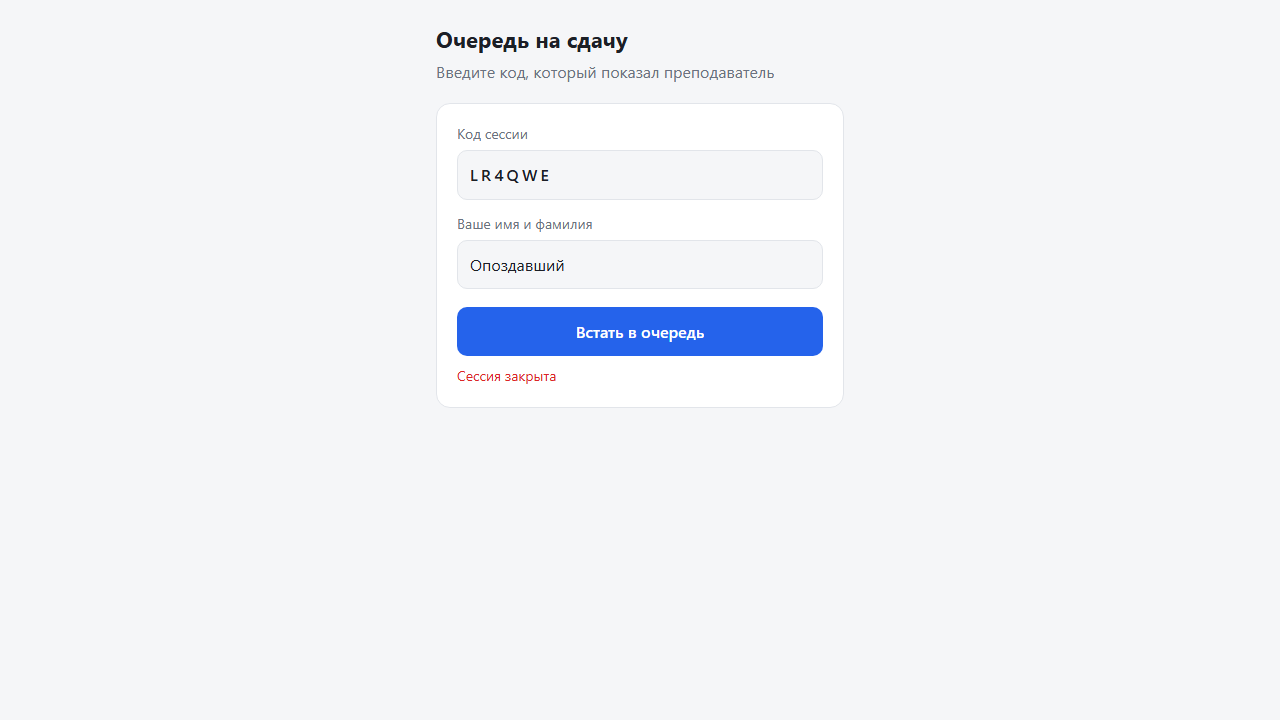
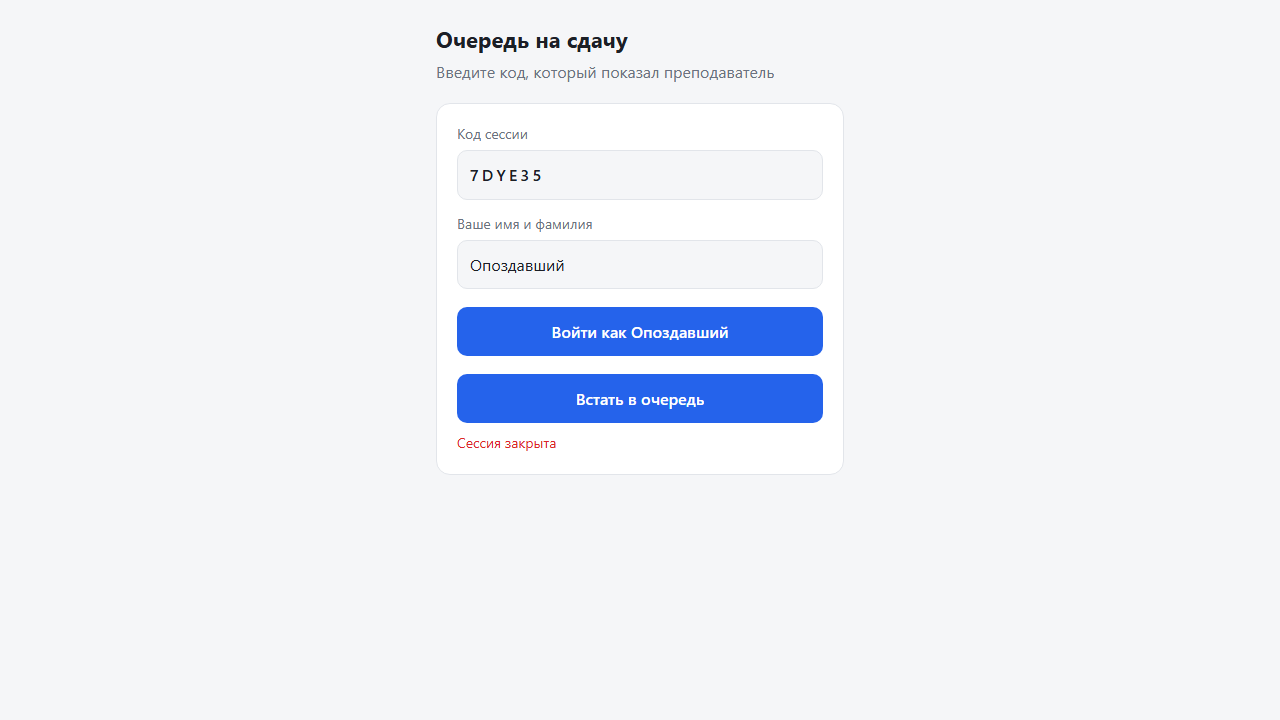
docs: describe new modes and features, refresh screenshots

Changed region(s): [[0.3438, 0.5194, 0.6562, 0.6417], [0.4375, 0.4583, 0.5625, 0.4889], [0.375, 0.2139, 0.4375, 0.275]]

diff --git a/README.md b/README.md
@@ -20,7 +20,9 @@ docker compose up -d --build
 
 Без Docker: поднять PostgreSQL, прописать `DATABASE_URL` в `.env`, затем `pip install -r requirements-dev.txt`, `alembic upgrade head`, `uvicorn main:app` (процесс один, см. «Ограничения»).
 
-Развёртывание на сервере, HTTPS и резервные копии: [docs/DEPLOY.md](docs/DEPLOY.md).
+**Занятие за 30 секунд.** Откройте `/teacher`, войдите, нажмите «Начать занятие» (форма уже заполнена прошлыми настройками): появятся код, ссылка и QR, кнопка «На проектор» разворачивает их на весь экран. Подробная инструкция преподавателю, текст для студентов, анкета и метрики пилота: [docs/PILOT.md](docs/PILOT.md).
+
+Развёртывание на сервере (VPS с 1 ГБ), HTTPS, резервные копии и чек-лист безопасности: [docs/DEPLOY.md](docs/DEPLOY.md); боевой вариант запускается из `docker-compose.prod.yml` с `.env.prod.example`.
 
 ## Скриншоты
 
@@ -28,6 +30,10 @@ docker compose up -d --build
 |---|---|
 | ![Очередь преподавателя](docs/screenshots/teacher-queue.png) | ![Студента вызвали](docs/screenshots/student-called.png) |
 | ![Вызванный студент](docs/screenshots/teacher-called.png) | ![Следующий в очереди](docs/screenshots/student-next.png) |
+| ![Старт занятия: код и QR](docs/screenshots/teacher-start-panel.png) | ![Проверка присутствия](docs/screenshots/teacher-presence-code.png) |
+| ![Бюджет времени и прогноз](docs/screenshots/teacher-budget-over.png) | ![Жеребьёвка проведена](docs/screenshots/teacher-lottery-done.png) |
+| ![Студент в пуле жеребьёвки](docs/screenshots/student-lottery-pool.png) | ![Приоритет готовности](docs/screenshots/student-ready-priority.png) |
+| ![Наборы критериев и вставка вопросов](docs/screenshots/protocol-presets-and-bulk.png) | |
 
 ## Как это работает
 
@@ -111,6 +117,14 @@ stateDiagram-v2
 | `GET /sessions/{code}/me/history` | студент (`X-Entry-Token`) | свои завершённые попытки |
 | `POST /assignments/{id}/copy`, `GET /assignment-templates`, `POST /assignment-templates/{id}/create` | преподаватель | копия работы, шаблоны |
 | `/spaces`, `/spaces/join`, `/spaces/{id}/publications[/{pid}[/copy]]`, `/spaces/{id}/members/...` | преподаватель | предметные группы и общий банк |
+| `POST /sessions` (`session_mode`, `order_mode`, `ready_*`, `presence_check`, `duration_minutes` или `deadline_at`) | преподаватель | настройки занятия при создании |
+| `PUT /sessions/{code}/settings`, `POST /sessions/{code}/lottery`, `GET /sessions/{code}/events-log` | преподаватель | порядок и поощрения до закрытия записи; «закрыть запись и перемешать» (ровно один раз); журнал жеребьёвки и решений |
+| `PUT /sessions/{code}/priority` | студент (`X-Entry-Token`) | «Готов сдать сразу» или «Ещё готовлюсь» до закрытия записи |
+| `POST /submissions/{id}/bonus/remove` | преподаватель | снять бонус за раннюю сдачу с причиной |
+| `GET /sessions/{code}/budget`, `POST /sessions/{code}/budget/decision` | преподаватель | остаток времени, бюджет на студента, прогноз; согласие или отказ уменьшить число вопросов |
+| `PUT /sessions/{code}/presence`, `GET /sessions/{code}/presence` | преподаватель | проверка присутствия: включить и выключить; код на экране и секунды до смены |
+| `GET /qr.svg?text=...` | все | QR-код (SVG) на сервере, без внешних сервисов |
+| `POST /assignments/{id}/questions/import`, `GET /criteria-presets`, `POST /assignments/{id}/criteria/preset` | преподаватель | вставка списка вопросов с предпросмотром; готовые наборы критериев |
 | `GET /health`, `GET /ready`, `GET /metrics` | все | жив ли процесс; готов ли (БД и миграции); счётчики |
 
 Любая ошибка имеет вид `{"detail": "...", "code": "queue_empty", "request_id": "..."}` (для 422 добавлен список `errors`). В каждом ответе есть заголовок `X-Request-ID`.
@@ -160,6 +174,15 @@ python loadtest/summarize.py                  # медиана и разброс
 - **Аналитика справедливости** (только преподавателю, на `/protocol`). Сколько сдач, медиана и разброс длительности, распределение баллов по критериям, выбросы по длительности относительно медианы **той же группы результата**; только номера талонов, текст по шаблону. При менее чем 5 сдачах выводов нет (порог `ANALYTICS_MIN_SUBMISSIONS`).
 - **Слабые места** (на `/protocol`, по сессии и по работе). Средний процент от максимума и доля сдач ниже 50% по каждому критерию, самые проблемные критерии и вопросы, распределение итогов; таблицы и простые полосы, без имён. Первые попытки и пересдачи считаются отдельно, у каждой выборки свой порог в 5 сдач. Решение: [docs/DECISIONS.md](docs/DECISIONS.md) п. 30.
 
+### Режимы занятия, быстрый ввод и порядок очереди
+
+- **Три режима сессии.** «Только очередь» (без оценок), «Быстрая оценка» (одна оценка 0..максимум, по умолчанию 10, плюс заметка; хранится как обычная сдача с неявным критерием «Оценка», поэтому история, аналитика и журнал работают) и «Полный протокол». Режим выбирается при создании, по умолчанию как раньше. Единый рабочий экран `/teacher`: очередь, вызванный студент и панель оценки без переходов между страницами. П. 35.
+- **Быстрый ввод.** Вставка списка вопросов (нумерация, пустые строки и повторы убираются, предпросмотр, один клик), три готовых набора критериев, оценка кнопками и «Всё на максимум», быстрые пометки, горячие клавиши (`N`, цифры, `Enter`, `?`), у студента имя запоминается и вход в один клик. П. 36.
+- **Порядок очереди.** Жеребьёвка (студенты в пуле без номеров, «Закрыть запись и перемешать» один раз, перестановка в журнале), приоритет «готов сразу» с необязательным бонусом отдельной строкой (снимается с причиной) и на один вопрос меньше. П. 33.
+- **Бюджет времени.** При заданном «до HH:MM» или «N минут»: остаток, бюджет на студента, прогноз окончания, цветной статус, жёлтый и красный таймер сдачи, предложение уменьшить число вопросов только с согласия. П. 34.
+- **Проверка присутствия** (необязательно). Шестизначный код на экране меняется каждые 30-60 с, студент вводит его или сканирует QR; принимается текущий и предыдущий код, подбор ограничен по адресу и по сессии. Не защищает от пересылки кода (честно записано в KNOWN_ISSUES). П. 37.
+- **Хранение данных.** Закрытые сессии старше `DATA_RETENTION_DAYS` (180) удаляются автоматически (`python -m services.retention`); журналы не трогаются. П. 38, [docs/PILOT.md](docs/PILOT.md).
+
 ### Очередь, история, шаблоны и группы
 
 - **«Не готов, пропустите меня».** Студент сохраняет талон, но его вызывают после готовых; «Готов» возвращает по номеру. Отметок не больше двух за сессию (`NOT_READY_MAX_PER_SESSION`), преподаватель видит отметку и счётчик. Преподаватель может закрыть запись («Запись закрыта»): уже стоящие в очереди не затрагиваются. П. 28.
@@ -172,8 +195,11 @@ python loadtest/summarize.py                  # медиана и разброс
 ## Документы
 
 - [docs/PROTOCOL_DESIGN.md](docs/PROTOCOL_DESIGN.md): проект протокола сдачи.
+- [docs/PILOT.md](docs/PILOT.md): набор для пилота (инструкция, анкета, метрики, приватность).
+- [docs/DEPLOY.md](docs/DEPLOY.md): развёртывание на VPS с 1 ГБ, резервные копии, чек-лист безопасности.
+- [docs/LOADTEST.md](docs/LOADTEST.md): нагрузочные замеры и подготовленные сценарии новых функций.
 - [docs/AI.md](docs/AI.md): ИИ-помощник (Ollama, настройки, ограничения).
-- [docs/DECISIONS.md](docs/DECISIONS.md): решения, принятые без владельца (нужно подтвердить); п. 28-32 относятся к очереди, истории, слабым местам, шаблонам и группам.
+- [docs/DECISIONS.md](docs/DECISIONS.md): решения, принятые без владельца (нужно подтвердить); п. 28-38 относятся к очереди, истории, слабым местам, шаблонам, группам, порядку очереди, бюджету времени, режимам, быстрому вводу, присутствию, хранению данных и деплою.
 - [docs/KNOWN_ISSUES.md](docs/KNOWN_ISSUES.md): что не удалось.
 - [docs/PROGRESS.md](docs/PROGRESS.md): журнал работ.
 - [docs/FINAL_REPORT.md](docs/FINAL_REPORT.md): итоговый отчёт.
@@ -182,32 +208,35 @@ python loadtest/summarize.py                  # медиана и разброс
 
 - **Один процесс:** рассылка SSE, лимиты частоты и метрики хранятся в памяти процесса. Для нескольких процессов нужен Redis или `LISTEN/NOTIFY` (не реализовано).
 - Значения лимитов (`MAX_CONCURRENT_REQUESTS`, `RATE_LIMIT_*`, `SESSION_AUTO_CLOSE_HOURS`) подобраны по ограниченным измерениям и допущениям, пилот на настоящей группе их проверит.
-- Деплой на сервер, мониторинг, внешние резервные копии не проверялись.
+- Деплой на настоящий сервер, выпуск сертификата, мониторинг, внешние резервные копии не проверялись; боевой compose-файл проверен только локально на других портах. Нагрузочные сценарии новых функций подготовлены, но не запускались.
+- Закрытые сессии старше 180 дней удаляются автоматически (отключается `DATA_RETENTION_DAYS=0`); журналы остаются.
 - Требований с числами от колледжа нет, критерии в нагрузочном тесте мои допущения.
 
 ## Структура
 
 ```
 main.py            приложение, обработчики ошибок, /health /ready /metrics, страницы
-routers/           HTTP-слой (sessions, auth, live, protocol, ai, practice, analytics, history, templates, spaces)
+routers/           HTTP-слой (sessions, auth, live, protocol, ai, practice, analytics, history, templates, spaces, budget, qr)
 services/          бизнес-логика очереди, протокол, SSE-хаб, провайдер ИИ, тренировка, аналитика, автозакрытие, авторизация
 repositories/      запросы к БД
 models/ schemas/   ORM-модели и Pydantic-схемы
 core/              настройки, безопасность, лимиты, метрики, request id, исключения
-alembic/           миграции (sort_order, group_name, протокол, ai_jobs, не готов и окно записи, история студентов, шаблоны, группы)
+alembic/           миграции (sort_order, group_name, протокол, ai_jobs, не готов и окно записи, история студентов, шаблоны, группы, режимы порядка, бюджет времени, режимы сессии, присутствие)
 static/            страницы студента, преподавателя, протокола, тренировки, студентов и групп
 tests/             pytest (гонки, SSE, лимиты, миграции), tests/e2e: браузер
-loadtest/          k6, SSE-клиент, скрипты прогонов и сводка
-docs/              LEARNING, LOADTEST, DEPLOY, DECISIONS, отчёты, скриншоты
+loadtest/          k6 (`peak.js`, `lesson.js`), SSE-клиент, скрипты прогонов и сводка
+deploy/            Caddyfile, резервное копирование и восстановление
+docs/              LEARNING, LOADTEST, DEPLOY, PILOT, DECISIONS, отчёты, скриншоты
 ```
 
 ## Итоги проверки (локальный прогон)
 
-Локальный прогон 13.11.2026 (Python 3.11 во временном окружении, PostgreSQL 15 в Docker), после этапов 28-32 (не готов и окно записи, история и пересдачи, слабые места, шаблоны, предметные группы):
+Локальный прогон 13.11.2026 (Python 3.11 во временном окружении, PostgreSQL 15 в Docker), после этапов 33-38 (порядок очереди, бюджет времени, режимы и единый экран, быстрый ввод, присутствие, хранение данных и деплой):
 
-- `pytest --cov`: **323 теста прошли, 1 пропущен** (необязательный интеграционный тест с настоящей Ollama), покрытие **96%** (3866 строк, 148 не покрыто);
-- `pytest -m e2e --no-cov`: **44 теста** в браузере прошли (в том числе проверка ширины 360 px для новых страниц);
-- `ruff check .`, `ruff format --check .` (109 файлов), `mypy` (64 файла): без замечаний;
-- `alembic check`: без замечаний; для каждой новой миграции на временной базе проверены `upgrade`, `downgrade` и `upgrade` снова, плюс тесты миграций на данных (заполнение, откат);
+- `pytest --cov`: **520 тестов прошли, 1 пропущен** (необязательный интеграционный тест с настоящей Ollama), покрытие **97%** (4702 строк, 147 не покрыто); в полном прогоне иногда падает `test_live.py::test_burst_of_changes…` (зависит от скорости машины, в одиночку проходит, `docs/KNOWN_ISSUES.md`, п. 21);
+- `pytest -m e2e --no-cov`: **77 тестов** в браузере прошли (в том числе ширина 360 px для каждой новой или изменённой страницы);
+- `ruff check .`, `ruff format --check .` (134 файлов), `mypy` (75 файлов): без замечаний;
+- `alembic check`: без замечаний; для каждой новой миграции на временной базе проверены `upgrade`, `downgrade` и `upgrade` снова, плюс тесты миграций на данных;
+- боевая конфигурация (`docker-compose.prod.yml`) собрана и запущена локально на других портах и в проекте `queueprodtest`: postgres, web и caddy healthy, `/ready` через Caddy, SSE через прокси, `/metrics` снаружи 404, процесс не от root, корневая ФС только для чтения, резервная копия с ротацией и восстановление в новую базу; затем всё временное удалено;
+- нагрузочные сценарии `loadtest/lesson.js` и расширенный `sse_peak.py` проверены только на синтаксис, **не запускались**;
 - от прежних проверок (11.11, Python 3.14): мутации (убрали защиту, тест упал): блокировка сессии при правке оценок (падает тест цепочки журнала), запрет правки критериев после первой сдачи, выбор вопросов с повторами (6 тестов), ответ студента в системном сообщении, отсутствие валидации вывода модели (8 тестов); из прежних: шлюз `join`, `WHERE` в `insert_entry_if_room`;
-- Docker в этом прогоне не пересобирался; Docker: `docker compose build --no-cache web`, запуск, `/ready` 200, `/`, `/teacher`, `/protocol`, `/practice` отдают 200. (проверка 11.11).
